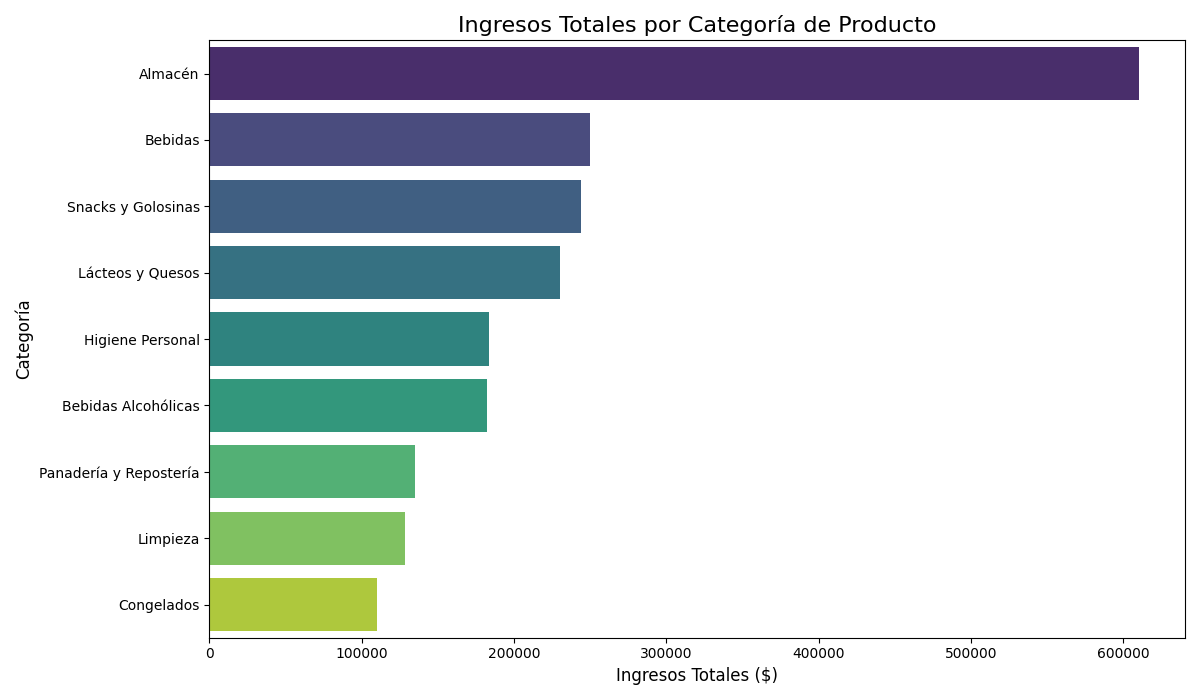
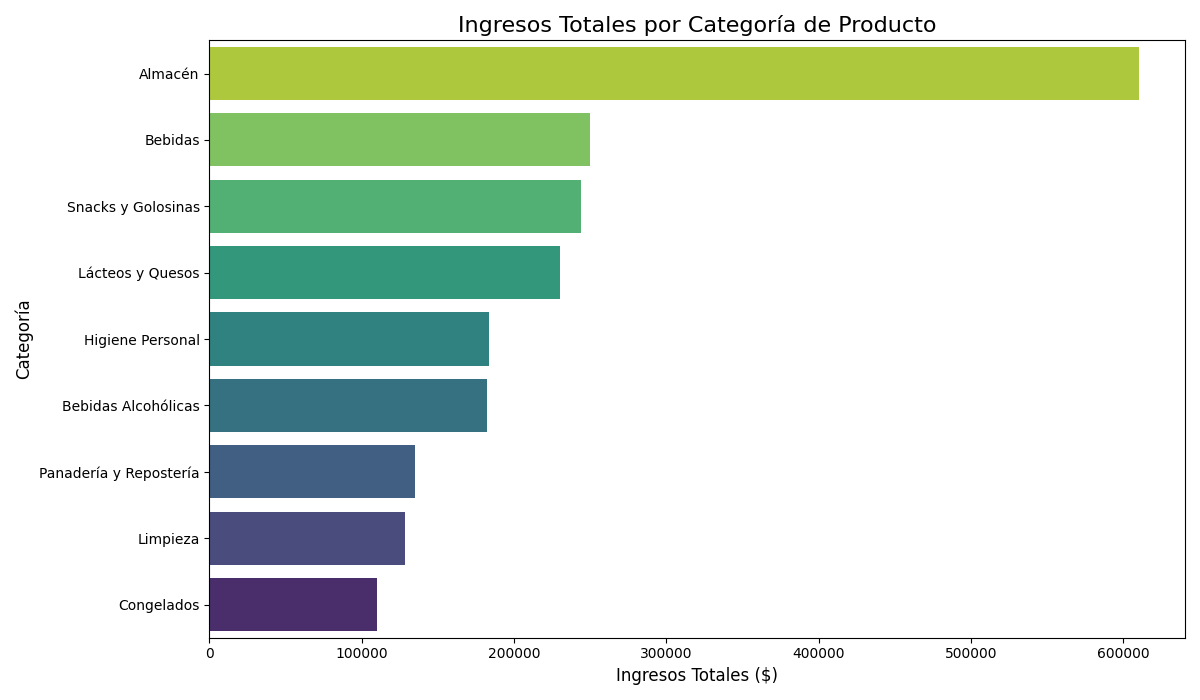
actualizacion de grafico de categorias

Changed region(s): [[0.1542, 0.06, 0.9558, 0.45], [0.1542, 0.54, 0.4317, 0.9]]

diff --git a/Clase 8/visualizaciones.py b/Clase 8/visualizaciones.py
@@ -19,7 +19,7 @@ print("\nGenerando Visualización 1: Ingresos por Categoría...")
 ingresos_categoria = df.groupby('categoria')['ingreso_total'].sum().sort_values(ascending=False)
 
 plt.figure(figsize=(12, 7))
-sns.barplot(x=ingresos_categoria.values, y=ingresos_categoria.index, palette='viridis')
+sns.barplot(x=ingresos_categoria.values, y=ingresos_categoria.index, palette='viridis_r')
 plt.title('Ingresos Totales por Categoría de Producto', fontsize=16)
 plt.xlabel('Ingresos Totales ($)', fontsize=12)
 plt.ylabel('Categoría', fontsize=12)
